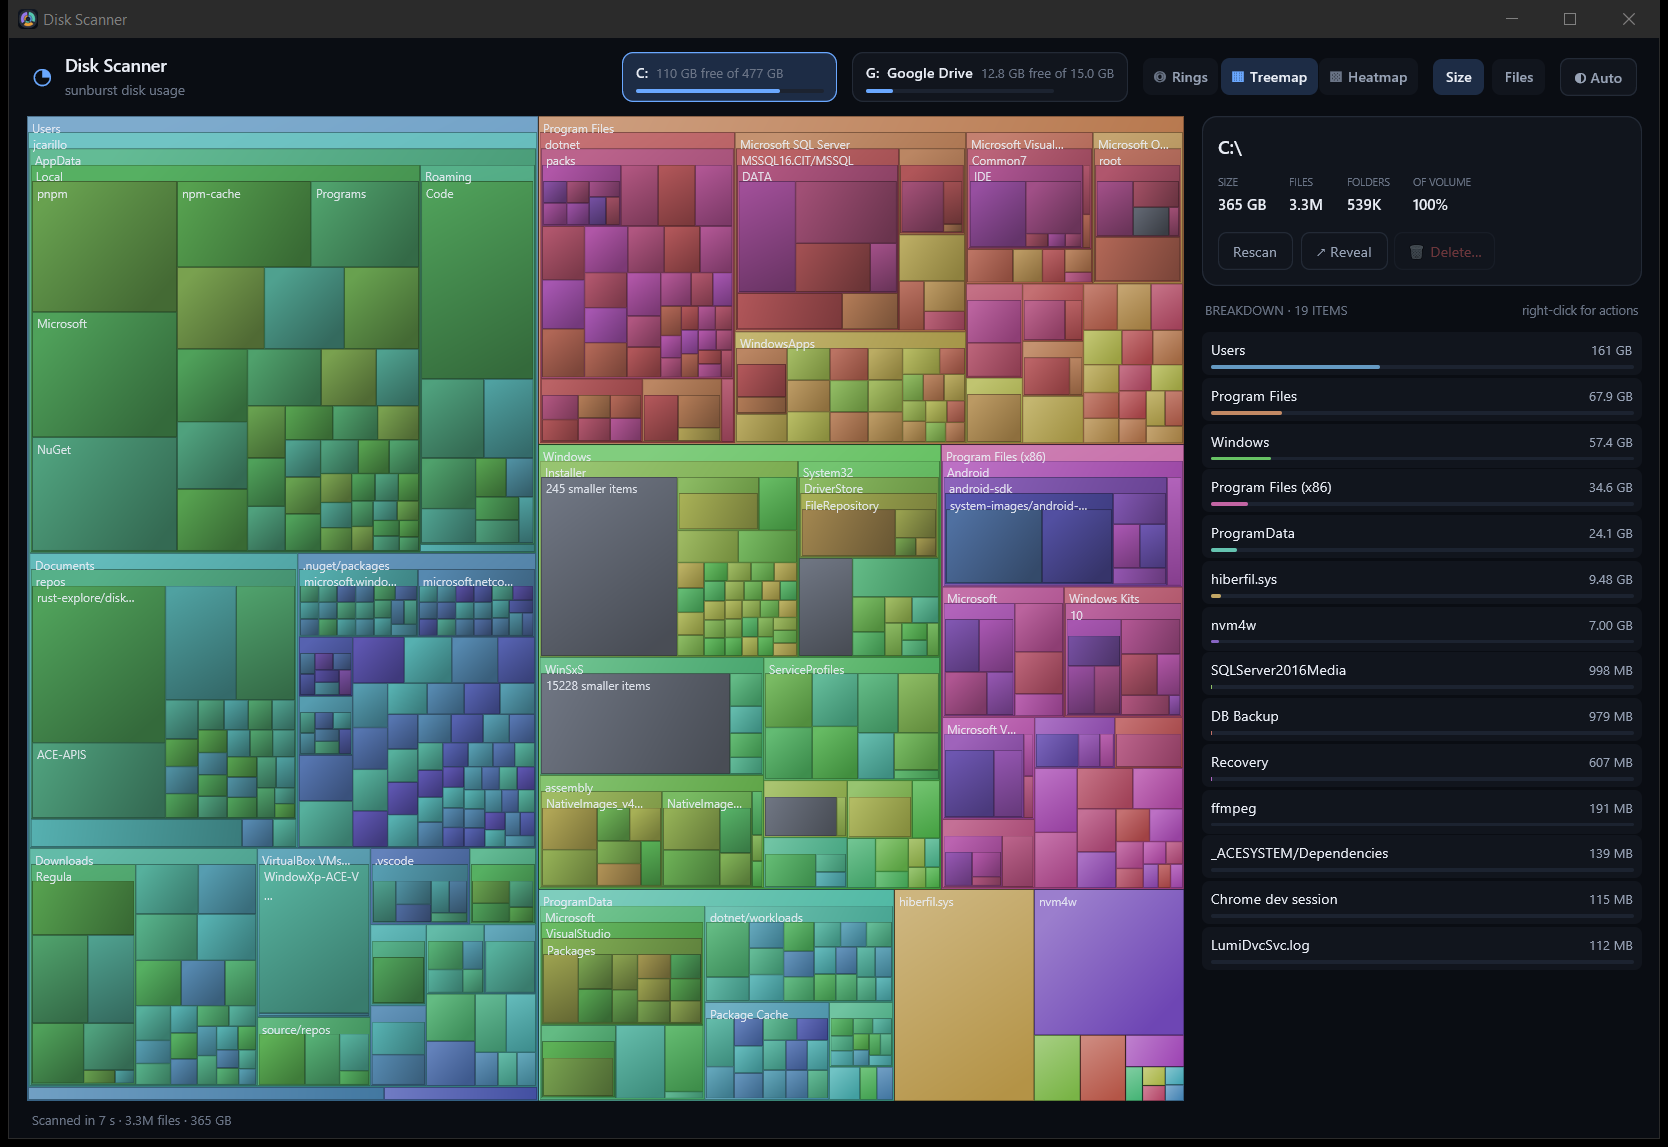
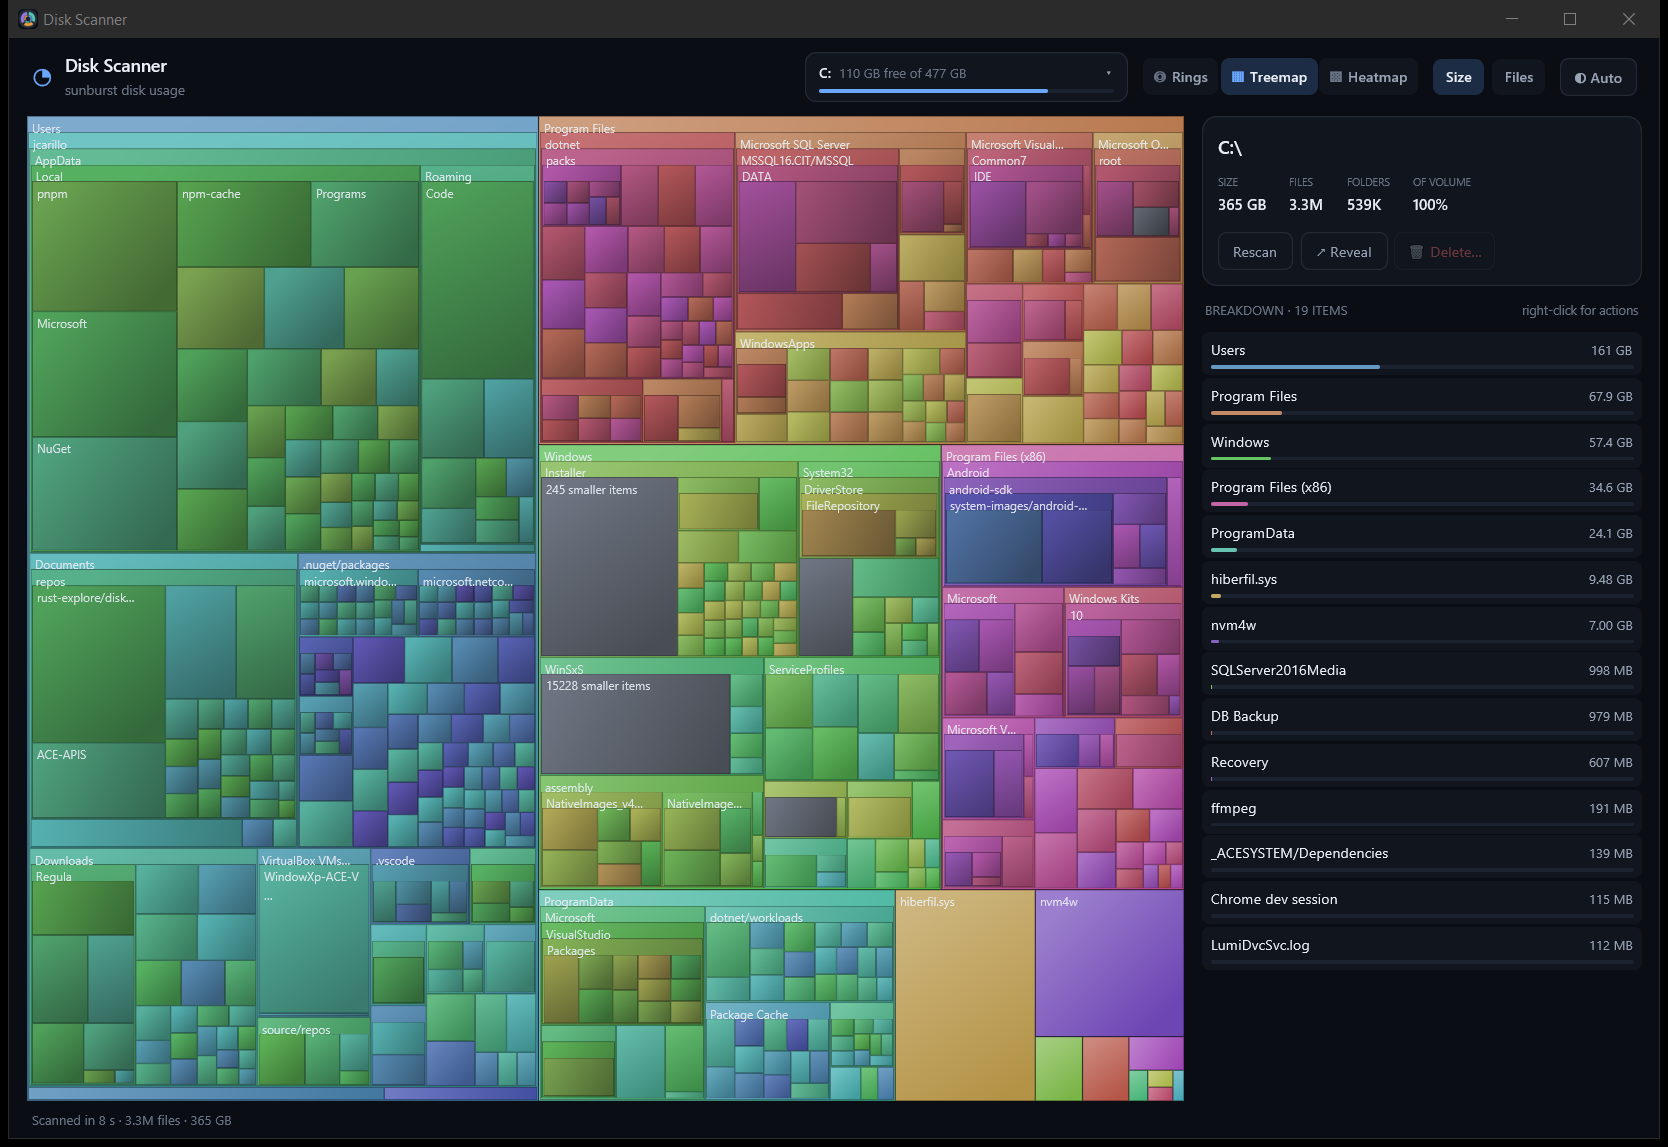
Turn the drive chips into a volume select with a dropdown list
The select names the open drive with its free/total space and a usage bar; its list of volumes opens as a real row of the layout beneath it, because GPUI 0.2.2 popup layers paint but never receive presses. Escape closes the list, and the list closes itself whenever a view is picked.

diff --git a/apps/desktop-gpui/src/app.rs b/apps/desktop-gpui/src/app.rs
@@ -135,6 +135,10 @@ pub struct DiskApp {
     view: View,
     /// Canvas size the current tile labels were laid out for.
     tile_size: (f32, f32),
+    /// The volume picker: a select in the top bar with an in-flow list below it
+    /// (GPUI popups paint but never receive presses, so the options open as a
+    /// real row of the layout).
+    drives_open: bool,
 }
 
 impl DiskApp {
@@ -180,6 +184,7 @@ impl DiskApp {
             system_dark,
             view: initial_view(),
             tile_size: (-1.0, -1.0),
+            drives_open: false,
         };
 
         // Follow the OS while the skin is on "Auto": the registry value changes
@@ -330,10 +335,13 @@ impl DiskApp {
     /// Rings, treemap or heatmap over the same tree.
     fn set_view(&mut self, view: View, cx: &mut Context<Self>) {
         if self.view == view {
+            self.drives_open = false;
+            cx.notify();
             return;
         }
         self.view = view;
         save_view(view);
+        self.drives_open = false;
         self.hover = None;
         self.tooltip = None;
         cx.notify();
@@ -685,12 +693,6 @@ impl DiskApp {
     // ---------------------------------------------------------------- render
 
     fn top_bar(&self, cx: &mut Context<Self>) -> Div {
-        let mut chips: Vec<AnyElement> = Vec::new();
-        for (index, drive) in self.drives.iter().enumerate() {
-            let active = self.last_root.eq_ignore_ascii_case(&drive.root);
-            chips.push(self.drive_chip(index, drive, active, cx).into_any_element());
-        }
-
         div()
             .h(px(TOPBAR_H))
             .flex_shrink_0()
@@ -728,7 +730,7 @@ impl DiskApp {
                     ),
             )
             .child(div().flex_1())
-            .children(chips)
+            .child(self.drive_select(cx))
             .child(
                 div()
                     .flex()
@@ -784,50 +786,54 @@ impl DiskApp {
             .child(label)
     }
 
-    fn drive_chip(
-        &self,
-        index: usize,
-        drive: &DriveInfo,
-        active: bool,
-        cx: &mut Context<Self>,
-    ) -> gpui::Stateful<Div> {
-        let used = drive.total.saturating_sub(drive.free);
-        let fraction = if drive.total == 0 {
-            0.0
-        } else {
-            used as f32 / drive.total as f32
+    /// The active volume, if it is still plugged in.
+    fn active_drive(&self) -> Option<&DriveInfo> {
+        self.drives
+            .iter()
+            .find(|drive| drive.root.eq_ignore_ascii_case(&self.last_root))
+    }
+
+    /// The select in the top bar: one line for the open volume, a chevron that
+    /// opens the list of volumes underneath it.
+    fn drive_select(&self, cx: &mut Context<Self>) -> gpui::Stateful<Div> {
+        let active = self.active_drive();
+        let open = self.drives_open;
+        let title = match active {
+            Some(drive) => drive_title(drive),
+            None => "Choose volume".to_string(),
         };
-        let root = drive.root.clone();
-        let label = if drive.label.is_empty() {
-            drive.root.trim_end_matches('\\').to_string()
-        } else {
-            format!("{}  {}", drive.root.trim_end_matches('\\'), drive.label)
-        };
+        let usage = active
+            .map(|drive| {
+                format!(
+                    "{} free of {}",
+                    theme::format_bytes(drive.free),
+                    theme::format_bytes(drive.total)
+                )
+            })
+            .unwrap_or_default();
+        let fraction = active.map(usage_fraction).unwrap_or(0.0);
 
         div()
-            .id(SharedString::from(format!("drive-{index}")))
+            .id("drive-select")
             .flex()
             .flex_col()
             .gap(px(4.0))
             .px(px(10.0))
             .py(px(6.0))
+            .w(px(258.0))
             .rounded(px(9.0))
-            .bg(if active {
-                theme::accent_soft()
+            .bg(if open {
+                theme::surface_alt()
             } else {
                 theme::surface()
             })
             .border_1()
-            .border_color(if active { theme::accent() } else { theme::hairline() })
+            .border_color(if open { theme::accent() } else { theme::hairline() })
             .cursor_pointer()
             .hover(|style| style.bg(theme::surface_alt()))
             .on_click(cx.listener(move |this, _, _, cx| {
-                // Clicking a drive only *shows* it: a cached scan paints
-                // instantly and is not re-walked. The Rescan button is the
-                // explicit way to refresh.
-                if !this.last_root.eq_ignore_ascii_case(&root) {
-                    this.switch_to(root.clone(), cx);
-                }
+                this.drives_open = !this.drives_open;
+                cx.notify();
             }))
             .child(
                 div()
@@ -839,23 +845,28 @@ impl DiskApp {
                             .text_size(px(11.5))
                             .font_weight(FontWeight::MEDIUM)
                             .text_color(theme::text())
-                            .child(label),
+                            .child(title),
                     )
                     .child(
                         div()
+                            .flex_1()
+                            .min_w_0()
+                            .truncate()
                             .text_size(px(10.5))
                             .text_color(theme::text_faint())
-                            .child(format!(
-                                "{} free of {}",
-                                theme::format_bytes(drive.free),
-                                theme::format_bytes(drive.total)
-                            )),
+                            .child(usage),
+                    )
+                    .child(
+                        div()
+                            .text_size(px(9.0))
+                            .text_color(theme::text_dim())
+                            .child(if open { "▴" } else { "▾" }),
                     ),
             )
             .child(
                 div()
                     .h(px(3.0))
-                    .w(px(150.0))
+                    .w_full()
                     .rounded_full()
                     .bg(theme::track())
                     .child(
@@ -867,8 +878,119 @@ impl DiskApp {
                             } else {
                                 theme::accent()
                             })
-                            .w(px(150.0 * fraction)),
+                            .w(px(238.0 * fraction)),
                     ),
+            )
+    }
+
+    /// The open list of volumes. It is a real row of the layout rather than a
+    /// floating popup: popup layers in GPUI 0.2.2 paint but never receive
+    /// presses, so a dropdown would look right and be dead to the mouse.
+    fn drives_panel(&self, cx: &mut Context<Self>) -> Div {
+        let mut rows: Vec<AnyElement> = Vec::new();
+        for (index, drive) in self.drives.iter().enumerate() {
+            let active = drive.root.eq_ignore_ascii_case(&self.last_root);
+            let fraction = usage_fraction(drive);
+            let root = drive.root.clone();
+            let title = drive_title(drive);
+            rows.push(
+                div()
+                    .id(SharedString::from(format!("drive-option-{index}")))
+                    .flex()
+                    .items_center()
+                    .gap(px(10.0))
+                    .px(px(10.0))
+                    .py(px(7.0))
+                    .rounded(px(7.0))
+                    .cursor_pointer()
+                    .bg(if active {
+                        theme::accent_soft()
+                    } else {
+                        theme::surface()
+                    })
+                    .hover(|style| style.bg(theme::surface_alt()))
+                    .on_click(cx.listener(move |this, _, _, cx| {
+                        this.drives_open = false;
+                        // Picking the volume that is already open just closes
+                        // the list; a cached volume paints from memory.
+                        if !this.last_root.eq_ignore_ascii_case(&root) {
+                            this.switch_to(root.clone(), cx);
+                        }
+                        cx.notify();
+                    }))
+                    .child(
+                        div()
+                            .w(px(14.0))
+                            .text_size(px(10.0))
+                            .text_color(theme::accent())
+                            .child(if active { "●" } else { "" }),
+                    )
+                    .child(
+                        div()
+                            .w(px(196.0))
+                            .min_w_0()
+                            .truncate()
+                            .text_size(px(11.5))
+                            .font_weight(FontWeight::MEDIUM)
+                            .text_color(theme::text())
+                            .child(title),
+                    )
+                    .child(
+                        div()
+                            .flex_1()
+                            .text_size(px(10.5))
+                            .text_color(theme::text_faint())
+                            .child(format!(
+                                "{} free of {}",
+                                theme::format_bytes(drive.free),
+                                theme::format_bytes(drive.total)
+                            )),
+                    )
+                    .child(
+                        div()
+                            .h(px(3.0))
+                            .w(px(120.0))
+                            .rounded_full()
+                            .bg(theme::track())
+                            .child(
+                                div()
+                                    .h_full()
+                                    .rounded_full()
+                                    .bg(if fraction > 0.9 {
+                                        theme::danger()
+                                    } else {
+                                        theme::accent()
+                                    })
+                                    .w(px(120.0 * fraction)),
+                            ),
+                    )
+                    .into_any_element(),
+            );
+        }
+
+        div()
+            .px(px(PAD))
+            .pb(px(8.0))
+            .pt(px(2.0))
+            .child(
+                div()
+                    .flex()
+                    .flex_col()
+                    .gap(px(2.0))
+                    .p(px(6.0))
+                    .rounded(px(11.0))
+                    .bg(theme::surface())
+                    .border_1()
+                    .border_color(theme::hairline())
+                    .child(
+                        div()
+                            .px(px(8.0))
+                            .pb(px(3.0))
+                            .text_size(px(9.5))
+                            .text_color(theme::text_faint())
+                            .child(format!("VOLUMES · {} · click to open", self.drives.len())),
+                    )
+                    .children(rows),
             )
     }
 
@@ -1702,7 +1824,9 @@ impl DiskApp {
     fn on_key(&mut self, event: &KeyDownEvent, cx: &mut Context<Self>) {
         match event.keystroke.key.as_str() {
             "escape" => {
-                if self.menu.is_some() {
+                if self.drives_open {
+                    self.drives_open = false;
+                } else if self.menu.is_some() {
                     self.menu = None;
                 } else if matches!(self.phase, Phase::Scanning) {
                     self.cancel_scan(cx);
@@ -2468,6 +2592,25 @@ impl Delta {
 /// The node one ring above `path` — the tree's own parent link, which is what
 /// "Up" means on the chart.
 ///
+/// `C:` or `G:  Google Drive` — the volume as the select and the list show it.
+fn drive_title(drive: &DriveInfo) -> String {
+    let root = drive.root.trim_end_matches('\\');
+    if drive.label.is_empty() {
+        root.to_string()
+    } else {
+        format!("{}  {}", root, drive.label)
+    }
+}
+
+/// How much of the volume is in use, as 0..=1.
+fn usage_fraction(drive: &DriveInfo) -> f32 {
+    if drive.total == 0 {
+        return 0.0;
+    }
+    let used = drive.total.saturating_sub(drive.free);
+    used as f32 / drive.total as f32
+}
+
 /// `to_dto` folds a chain of single-child folders into one node (`a/b/c`), so
 /// path arithmetic would land on a prefix that the tree happens to expose as
 /// some unrelated node (the file `app.asar.unpacked` next to the folded
@@ -2716,7 +2859,14 @@ impl Render for DiskApp {
             .text_size(px(13.0))
             .font_family("Segoe UI")
             .on_key_down(cx.listener(|this, event: &KeyDownEvent, _, cx| this.on_key(event, cx)))
-            .child(self.top_bar(cx))
+            .child(self.top_bar(cx));
+
+        // The volume list opens as a row of the layout, right under the select.
+        if self.drives_open {
+            root = root.child(self.drives_panel(cx));
+        }
+
+        root = root
             .child(
                 div()
                     .flex_1()

diff --git a/README.md b/README.md
@@ -40,14 +40,17 @@ level at once, sized by bytes or by file count, in the spirit of the classic Sca
   in the top bar.
 - **Focus card actions**: everything that acts on the open folder lives beside its name — the
   `↑ Up` button next to the clickable path, then *Rescan folder*, *↗ Reveal* and *🗑 Delete…*
-  in one row. The top bar keeps only global controls (volumes, view, metric, theme).
+  in one row. The top bar keeps only global controls (volume select, view, metric, theme).
 - **Rescan what you are looking at**: inside a folder the *Rescan folder* button (or
   `F5` / `Ctrl+R`) re-walks just that subtree and pushes the size difference back through the
   ancestors instead of re-reading the whole volume; at the root the same button re-walks the
   volume.
-- **Volume switching never rescans or blanks out**: a volume already walked in this session
-  is painted from memory the instant you click its chip; only a volume you have never
-  scanned starts a walk. Refreshing is always explicit (`F5` / `Ctrl+R` / *Rescan*).
+- **Volume switching never rescans or blanks out**: the top bar holds a volume select — it
+  names the open drive with its free/total space and a usage bar, and its list of volumes
+  drops down underneath it (the list is a real row of the layout, because GPUI 0.2.2 popup
+  layers paint but never receive clicks). A volume already walked in this session is painted
+  from memory the instant you pick it; only a volume you have never scanned starts a walk.
+  Refreshing is always explicit (`F5` / `Ctrl+R` / *Rescan*).
 - **Auto / Dark / Light theme**: the `◐` toggle follows the Windows app theme by default and
   remembers your choice in `%APPDATA%\disk-scanner\theme.txt`.
 - **Keyboard**: `Backspace` / `↑` / `←` zoom out one ring (folded chain folders included),
@@ -145,7 +148,8 @@ scripts\rust-env.ps1 cargo build --release
 
 The app remembers the last scanned root in `%APPDATA%\disk-scanner\last-root.txt` and
 rescans it on start (falling back to the first fixed drive). Scans are cached per volume for the
-session, so switching between drives repaints instantly and refreshes behind the chart.
+session, so picking a drive you already walked repaints instantly; a never-seen drive starts a
+walk that shows the cached chart under a progress pill.
 
 ### How fast the walk is
 
